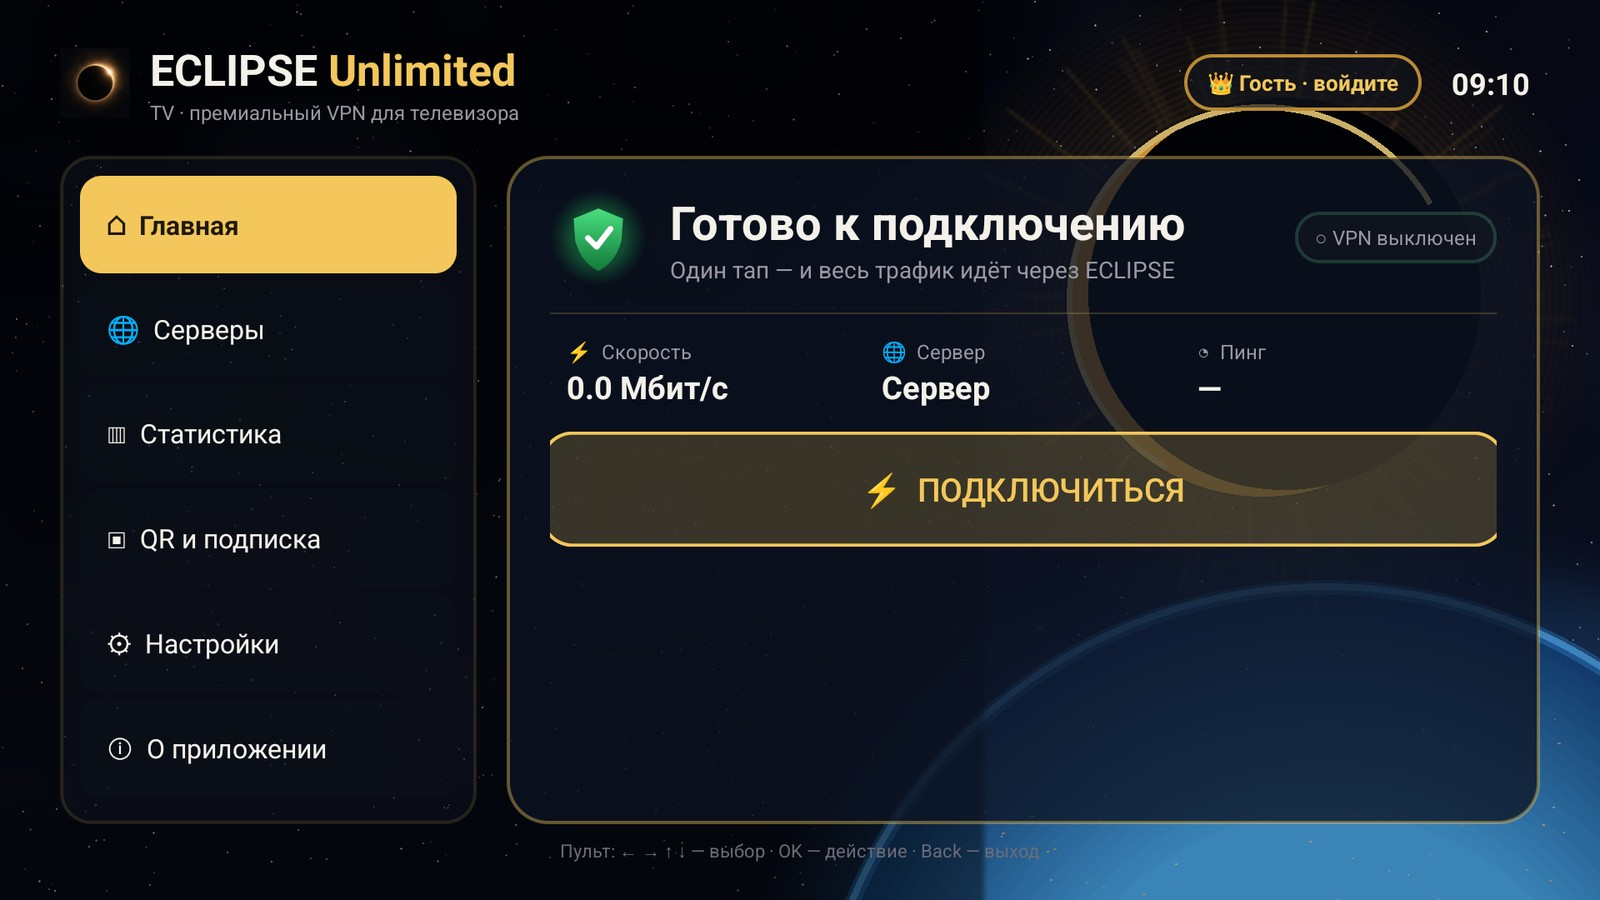
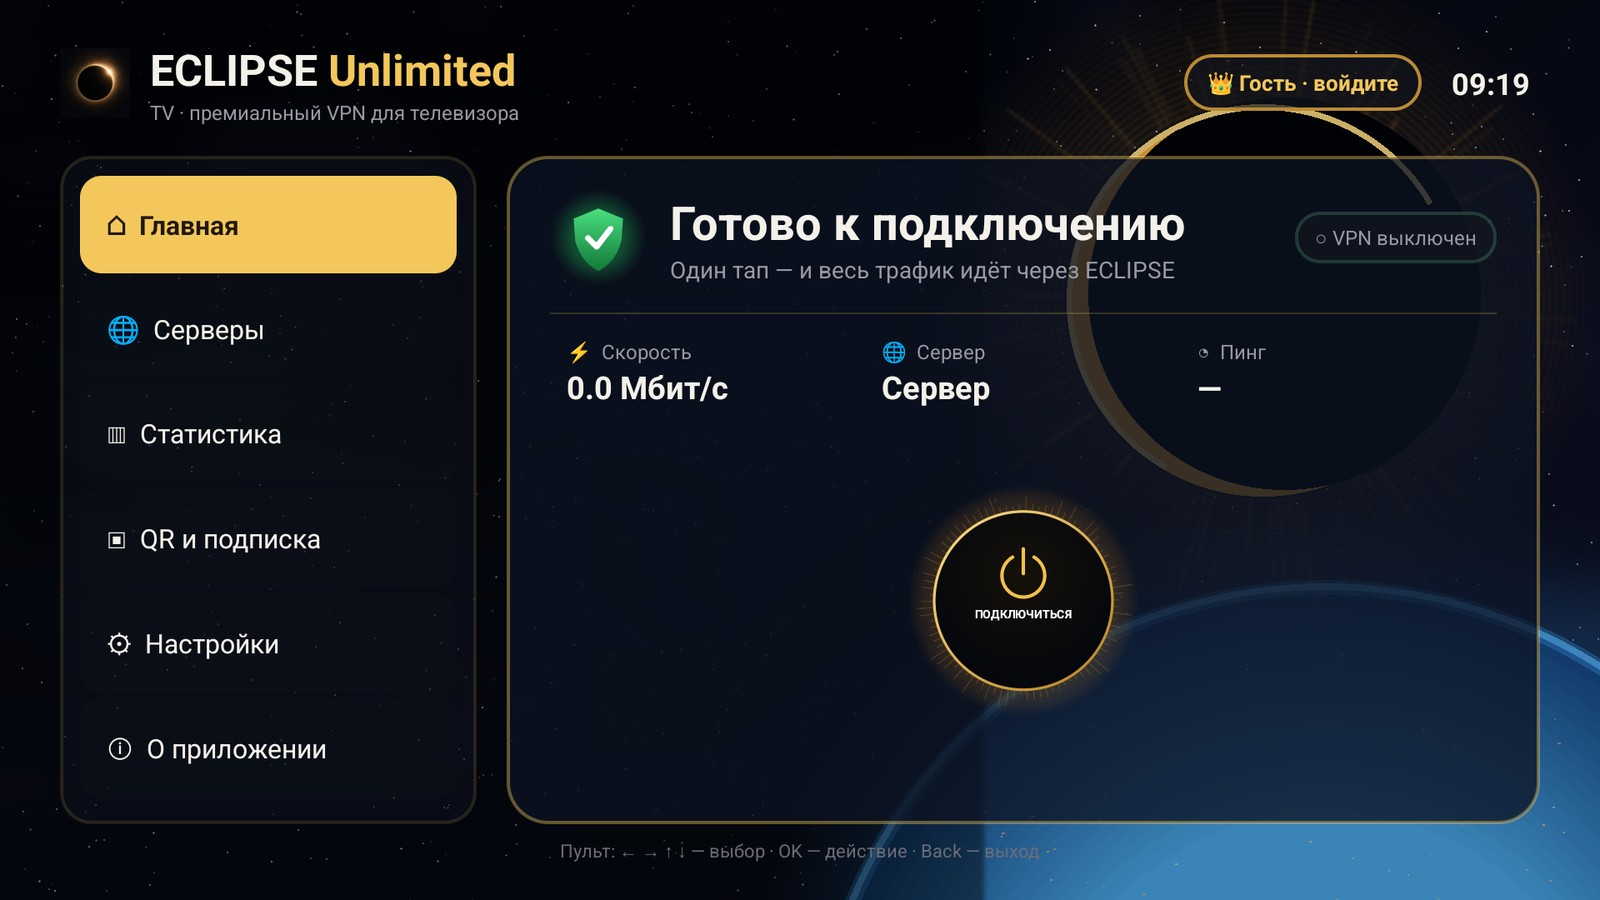
site: кнопка подключения как в приложении на TV

Changed region(s): [[0.3438, 0.4667, 0.9375, 0.7778]]

diff --git a/bot/webapp/templates/app.html b/bot/webapp/templates/app.html
@@ -837,7 +837,7 @@ a:focus-visible, summary:focus-visible, button:focus-visible {
                     <svg width="18" height="18" viewBox="0 0 24 24" fill="none" stroke="currentColor" stroke-width="2.4" stroke-linecap="round" stroke-linejoin="round" aria-hidden="true"><path d="M12 3v12"/><path d="m7 10 5 5 5-5"/><path d="M5 21h14"/></svg>
                     Скачать для Android TV
                 </a>
-                <p class="tv-note">Универсальный APK: arm64, armv7, x86, x86_64 · Android TV 8.0+ · отдельный пакет, не конфликтует с телефонным приложением.<br>Установка с телефона: в приложении ECLIPSE → «Установить приложение на TV» — телефон найдёт телевизор по локальной сети и поставит APK. Подписка переносится по QR.<br>SHA-256: <code>328e4b36c7000a1872701f4f80ab2881721615e682f651c232e41d657a248cbd</code></p>
+                <p class="tv-note">Универсальный APK: arm64, armv7, x86, x86_64 · Android TV 8.0+ · отдельный пакет, не конфликтует с телефонным приложением.<br>Установка с телефона: в приложении ECLIPSE → «Установить приложение на TV» — телефон найдёт телевизор по локальной сети и поставит APK. Подписка переносится по QR.<br>SHA-256: <code>bd505f48d207972cf3382b8c776c357cb5bbf9fd086b7e1ce7ca7430aee41535</code></p>
             </div>
         </div>
     </section>
